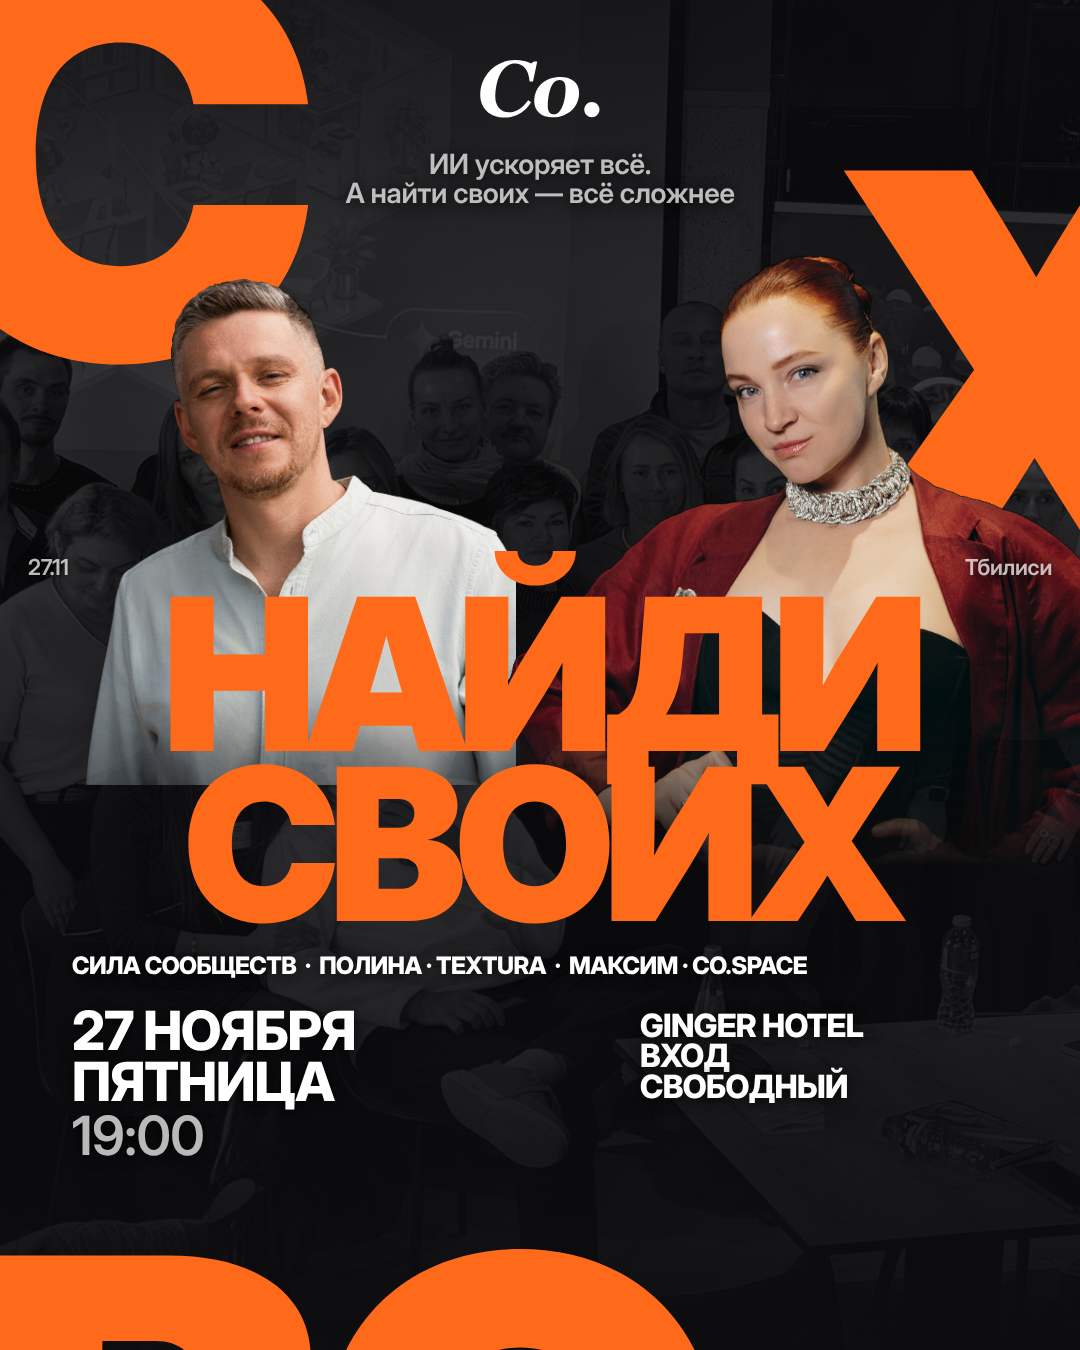
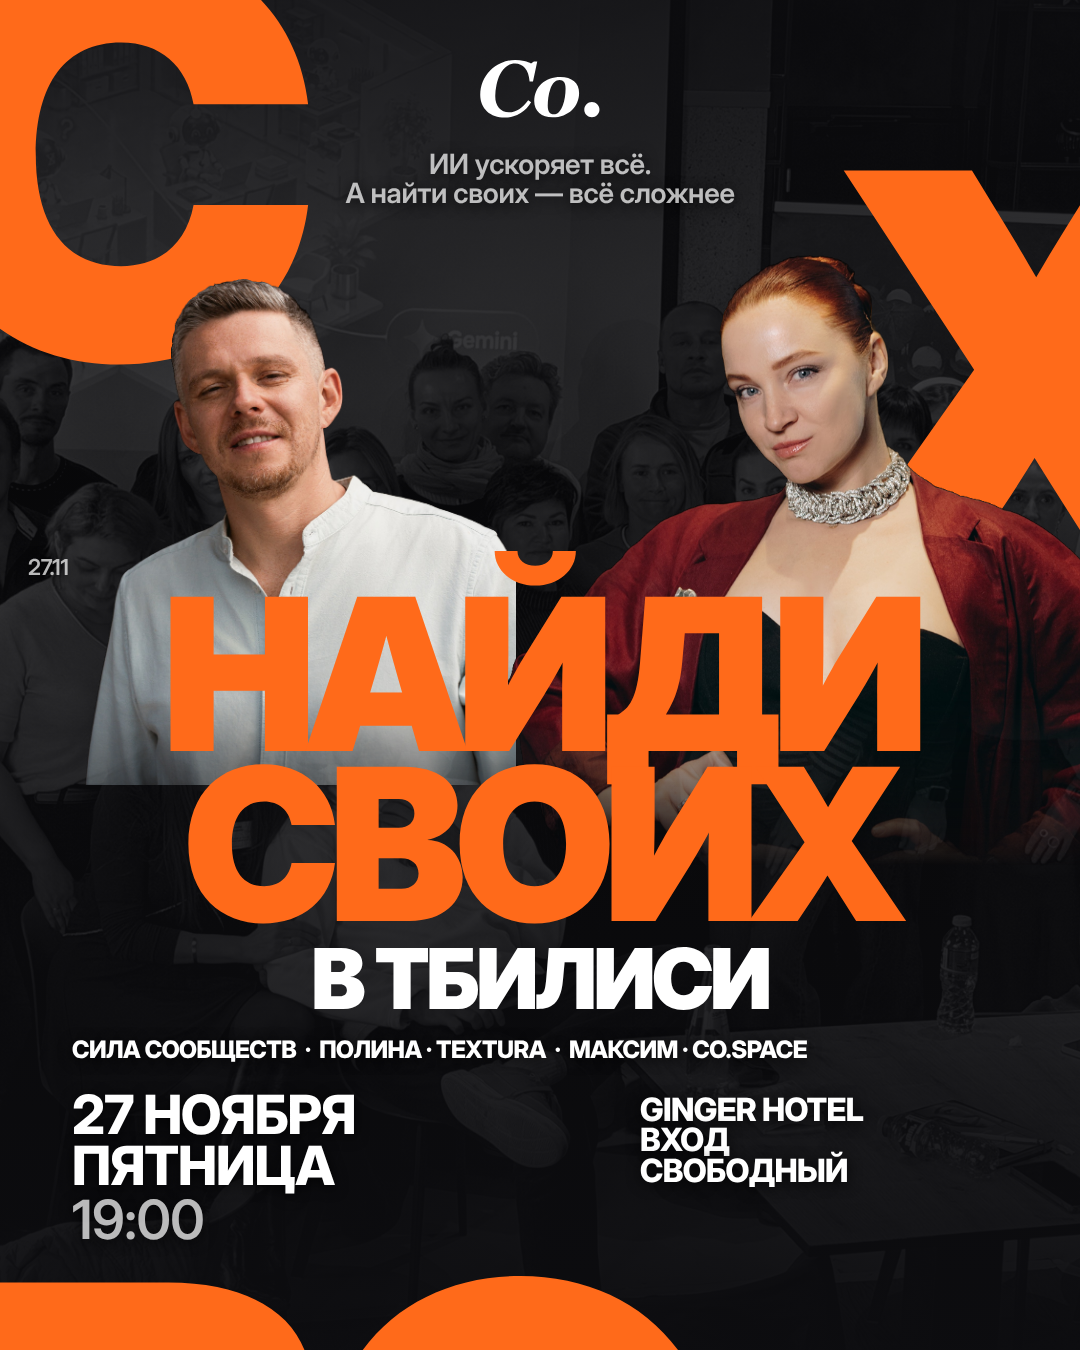
Вариант A: крупная строка «В ТБИЛИСИ»
Claude-Session: https://claude.ai/code/session_01EUhV7vaX3V2s8FuVCAhgM5

diff --git a/creatives/src/poster/edA-9x16.html b/creatives/src/poster/edA-9x16.html
@@ -14,7 +14,7 @@ body{background:#0D0D10}
 .title{position:absolute;left:0;right:0;text-align:center;font-weight:900;color:#FF6A1A;letter-spacing:-.05em;line-height:.8}
 .logo svg{display:block}
 .logo svg path{fill:#fff}
-</style></head><body><div class="bg"></div><div class="sh"></div><div class="L" style="left:-110px;top:-60px;font-size:760px">С</div><div class="L" style="right:-170px;top:330px;font-size:760px">Х</div><div class="person" style="left:71px;top:555px;height:546px;-webkit-mask-image:linear-gradient(180deg,#000 83.3%,transparent 118.1%);"><img src="max_cut.png"></div><div class="person" style="left:486px;top:525px;height:910px;-webkit-mask-image:linear-gradient(180deg,#000 53.2%,transparent 74.1%);"><img src="polina_cut.png"></div><div class="L" style="left:-40px;top:1700px;font-size:760px">ВО</div><div class="title" style="top:940px;font-size:245px">НАЙДИ<br>СВОИХ</div><div class="abs t" style="left:28px;top:906px;font-size:22px">27.11</div><div class="abs t" style="right:28px;top:906px;font-size:22px">Тбилиси</div><div class="abs t" style="left:0;right:0;top:365px;text-align:center;font-size:32px">ИИ ускоряет всё.<br>А найти своих — всё сложнее</div><div class="abs tb" style="left:72px;top:1358px;font-size:24px">СИЛА СООБЩЕСТВ &nbsp;·&nbsp; ПОЛИНА · TEXTURA &nbsp;·&nbsp; МАКСИМ · CO.SPACE</div><div class="abs" style="left:72px;top:1408px"><div class="tb" style="font-size:64px">27 НОЯБРЯ<br>ПЯТНИЦА</div><div class="t" style="font-size:64px">19:00</div></div><div class="abs tb" style="left:640px;top:1414px;font-size:36px">GINGER HOTEL<br>ВХОД<br>СВОБОДНЫЙ</div><div class="abs logo" style="left:50%;transform:translateX(-50%);top:270px"><svg width="120" height="59" viewBox="0 0 77 38" fill="none" xmlns="http://www.w3.org/2000/svg">
+</style></head><body><div class="bg"></div><div class="sh"></div><div class="L" style="left:-110px;top:-60px;font-size:760px">С</div><div class="L" style="right:-170px;top:330px;font-size:760px">Х</div><div class="person" style="left:71px;top:515px;height:546px;-webkit-mask-image:linear-gradient(180deg,#000 83.3%,transparent 118.1%);"><img src="max_cut.png"></div><div class="person" style="left:486px;top:485px;height:910px;-webkit-mask-image:linear-gradient(180deg,#000 53.2%,transparent 74.1%);"><img src="polina_cut.png"></div><div class="L" style="left:-40px;top:1730px;font-size:760px">ВО</div><div class="title" style="top:900px;font-size:245px">НАЙДИ<br>СВОИХ</div><div class="abs t" style="left:28px;top:866px;font-size:22px">27.11</div><div class="abs t" style="left:0;right:0;top:365px;text-align:center;font-size:32px">ИИ ускоряет всё.<br>А найти своих — всё сложнее</div><div class="abs" style="left:0;right:0;top:1300px;text-align:center;font-weight:900;font-size:96px;letter-spacing:-.04em;line-height:1;color:#fff">В ТБИЛИСИ</div><div class="abs tb" style="left:72px;top:1414px;font-size:24px">СИЛА СООБЩЕСТВ &nbsp;·&nbsp; ПОЛИНА · TEXTURA &nbsp;·&nbsp; МАКСИМ · CO.SPACE</div><div class="abs" style="left:72px;top:1464px"><div class="tb" style="font-size:64px">27 НОЯБРЯ<br>ПЯТНИЦА</div><div class="t" style="font-size:64px">19:00</div></div><div class="abs tb" style="left:640px;top:1470px;font-size:36px">GINGER HOTEL<br>ВХОД<br>СВОБОДНЫЙ</div><div class="abs logo" style="left:50%;transform:translateX(-50%);top:270px"><svg width="120" height="59" viewBox="0 0 77 38" fill="none" xmlns="http://www.w3.org/2000/svg">
 <path d="M15.6912 37.0447C13.4308 37.0447 11.3353 36.7143 9.40484 36.0537C7.47438 35.3761 5.80789 34.4098 4.40543 33.1545C3.01945 31.8988 1.93872 30.371 1.16323 28.5701C0.387743 26.7532 0 24.7047 0 22.425C0 19.402 0.552742 16.5524 1.65822 13.8763C2.78021 11.2001 4.35593 8.81309 6.38539 6.71513C8.33235 4.69976 10.7083 3.08086 13.5133 1.85843C16.3347 0.619476 19.3294 0 22.4974 0C24.4114 0 26.35 0.231271 28.3134 0.693814C30.2771 1.15636 31.7455 1.69323 32.7189 2.30445L34.5753 0.941605H36.7283L33.9811 13.7772H31.8034C31.4733 10.0273 30.4751 7.17767 28.8084 5.22837C27.1585 3.26258 25.0301 2.27967 22.4231 2.27967C20.5092 2.27967 18.7437 2.8496 17.1267 3.98942C15.5098 5.12927 14.0743 6.88031 12.8203 9.24259C11.7973 11.1919 11.0136 13.455 10.4691 16.0321C9.9411 18.5925 9.67709 20.9961 9.67709 23.2428C9.67709 26.5468 10.4773 29.1154 12.0778 30.9491C13.6783 32.7828 15.8232 33.6994 18.5127 33.6994C20.8722 33.6994 23.0584 33.0387 25.0713 31.7171C27.0844 30.3957 29.023 28.4875 30.8875 25.9932L32.7933 27.2816C31.9848 28.5372 31.0196 29.776 29.8976 30.9985C28.7755 32.2044 27.4968 33.2536 26.0613 34.1455C24.5598 35.0871 23.0089 35.8056 21.4084 36.3014C19.8244 36.7969 17.9187 37.0447 15.6912 37.0447Z" fill="white"/>
 <path d="M63.6817 21.2605C63.6817 23.342 63.2858 25.3326 62.4936 27.2323C61.7017 29.132 60.5797 30.784 59.1278 32.188C57.5603 33.6914 55.7205 34.856 53.6085 35.6819C51.5131 36.4914 49.1536 36.8962 46.5303 36.8962C43.0159 36.8962 40.178 35.9628 38.0163 34.0962C35.8548 32.213 34.7741 29.6523 34.7741 26.4146C34.7741 24.2175 35.1783 22.1774 35.9869 20.2942C36.8119 18.411 37.9587 16.7673 39.4271 15.3631C40.8792 13.992 42.6611 12.91 44.7731 12.1171C46.8851 11.3076 49.1701 10.9029 51.6285 10.9029C55.3575 10.9029 58.2946 11.8197 60.4395 13.6534C62.6009 15.4705 63.6817 18.0062 63.6817 21.2605ZM54.9699 18.4605C54.9699 16.5277 54.6398 15.1071 53.9799 14.1985C53.3363 13.29 52.396 12.8357 51.1585 12.8357C49.8879 12.8357 48.7246 13.3478 47.6686 14.372C46.6129 15.3797 45.7547 16.8664 45.0947 18.8322C44.5172 20.4676 44.1048 22.2434 43.8573 24.1597C43.6098 26.0594 43.4862 27.7609 43.4862 29.2641C43.4862 31.263 43.816 32.7167 44.4761 33.6254C45.136 34.5172 46.0929 34.9633 47.3469 34.9633C48.6999 34.9633 49.8713 34.4099 50.8613 33.3032C51.8513 32.1964 52.6351 30.8335 53.2127 29.2146C53.7902 27.6287 54.2274 25.8777 54.5243 23.9615C54.8213 22.0287 54.9699 20.195 54.9699 18.4605Z" fill="white"/>
 <path d="M76.8 31.9899C76.8 33.295 76.3132 34.4265 75.3397 35.3847C74.3829 36.3428 73.2443 36.8218 71.9243 36.8218C70.5879 36.8218 69.433 36.351 68.4593 35.4094C67.5025 34.4512 67.0238 33.3113 67.0238 31.9899C67.0238 30.6683 67.5025 29.5284 68.4593 28.5702C69.433 27.5958 70.5879 27.1084 71.9243 27.1084C73.2443 27.1084 74.3829 27.5958 75.3397 28.5702C76.3132 29.545 76.8 30.6849 76.8 31.9899Z" fill="white"/>

diff --git a/creatives/src/poster/edA-4x5.html b/creatives/src/poster/edA-4x5.html
@@ -14,7 +14,7 @@ body{background:#0D0D10}
 .title{position:absolute;left:0;right:0;text-align:center;font-weight:900;color:#FF6A1A;letter-spacing:-.05em;line-height:.8}
 .logo svg{display:block}
 .logo svg path{fill:#fff}
-</style></head><body><div class="bg"></div><div class="sh"></div><div class="L" style="left:-90px;top:-70px;font-size:560px">С</div><div class="L" style="right:-140px;top:150px;font-size:560px">Х</div><div class="person" style="left:85px;top:279px;height:506px;-webkit-mask-image:linear-gradient(180deg,#000 82.2%,transparent 115.8%);"><img src="max_cut.png"></div><div class="person" style="left:508px;top:252px;height:844px;-webkit-mask-image:linear-gradient(180deg,#000 52.5%,transparent 72.7%);"><img src="polina_cut.png"></div><div class="L" style="left:-30px;top:1235px;font-size:560px">ВО</div><div class="title" style="top:590px;font-size:212px">НАЙДИ<br>СВОИХ</div><div class="abs t" style="left:28px;top:556px;font-size:22px">27.11</div><div class="abs t" style="right:28px;top:556px;font-size:22px">Тбилиси</div><div class="abs t" style="left:0;right:0;top:150px;text-align:center;font-size:28px">ИИ ускоряет всё.<br>А найти своих — всё сложнее</div><div class="abs tb" style="left:72px;top:955px;font-size:24px">СИЛА СООБЩЕСТВ &nbsp;·&nbsp; ПОЛИНА · TEXTURA &nbsp;·&nbsp; МАКСИМ · CO.SPACE</div><div class="abs" style="left:72px;top:1005px"><div class="tb" style="font-size:54px">27 НОЯБРЯ<br>ПЯТНИЦА</div><div class="t" style="font-size:54px">19:00</div></div><div class="abs tb" style="left:640px;top:1011px;font-size:32px">GINGER HOTEL<br>ВХОД<br>СВОБОДНЫЙ</div><div class="abs logo" style="left:50%;transform:translateX(-50%);top:60px"><svg width="120" height="59" viewBox="0 0 77 38" fill="none" xmlns="http://www.w3.org/2000/svg">
+</style></head><body><div class="bg"></div><div class="sh"></div><div class="L" style="left:-90px;top:-70px;font-size:560px">С</div><div class="L" style="right:-140px;top:150px;font-size:560px">Х</div><div class="person" style="left:85px;top:279px;height:506px;-webkit-mask-image:linear-gradient(180deg,#000 82.2%,transparent 115.8%);"><img src="max_cut.png"></div><div class="person" style="left:508px;top:252px;height:844px;-webkit-mask-image:linear-gradient(180deg,#000 52.5%,transparent 72.7%);"><img src="polina_cut.png"></div><div class="L" style="left:-30px;top:1262px;font-size:560px">ВО</div><div class="title" style="top:590px;font-size:212px">НАЙДИ<br>СВОИХ</div><div class="abs t" style="left:28px;top:556px;font-size:22px">27.11</div><div class="abs t" style="left:0;right:0;top:150px;text-align:center;font-size:28px">ИИ ускоряет всё.<br>А найти своих — всё сложнее</div><div class="abs" style="left:0;right:0;top:937px;text-align:center;font-weight:900;font-size:84px;letter-spacing:-.04em;line-height:1;color:#fff">В ТБИЛИСИ</div><div class="abs tb" style="left:72px;top:1039px;font-size:24px">СИЛА СООБЩЕСТВ &nbsp;·&nbsp; ПОЛИНА · TEXTURA &nbsp;·&nbsp; МАКСИМ · CO.SPACE</div><div class="abs" style="left:72px;top:1089px"><div class="tb" style="font-size:54px">27 НОЯБРЯ<br>ПЯТНИЦА</div><div class="t" style="font-size:54px">19:00</div></div><div class="abs tb" style="left:640px;top:1095px;font-size:32px">GINGER HOTEL<br>ВХОД<br>СВОБОДНЫЙ</div><div class="abs logo" style="left:50%;transform:translateX(-50%);top:60px"><svg width="120" height="59" viewBox="0 0 77 38" fill="none" xmlns="http://www.w3.org/2000/svg">
 <path d="M15.6912 37.0447C13.4308 37.0447 11.3353 36.7143 9.40484 36.0537C7.47438 35.3761 5.80789 34.4098 4.40543 33.1545C3.01945 31.8988 1.93872 30.371 1.16323 28.5701C0.387743 26.7532 0 24.7047 0 22.425C0 19.402 0.552742 16.5524 1.65822 13.8763C2.78021 11.2001 4.35593 8.81309 6.38539 6.71513C8.33235 4.69976 10.7083 3.08086 13.5133 1.85843C16.3347 0.619476 19.3294 0 22.4974 0C24.4114 0 26.35 0.231271 28.3134 0.693814C30.2771 1.15636 31.7455 1.69323 32.7189 2.30445L34.5753 0.941605H36.7283L33.9811 13.7772H31.8034C31.4733 10.0273 30.4751 7.17767 28.8084 5.22837C27.1585 3.26258 25.0301 2.27967 22.4231 2.27967C20.5092 2.27967 18.7437 2.8496 17.1267 3.98942C15.5098 5.12927 14.0743 6.88031 12.8203 9.24259C11.7973 11.1919 11.0136 13.455 10.4691 16.0321C9.9411 18.5925 9.67709 20.9961 9.67709 23.2428C9.67709 26.5468 10.4773 29.1154 12.0778 30.9491C13.6783 32.7828 15.8232 33.6994 18.5127 33.6994C20.8722 33.6994 23.0584 33.0387 25.0713 31.7171C27.0844 30.3957 29.023 28.4875 30.8875 25.9932L32.7933 27.2816C31.9848 28.5372 31.0196 29.776 29.8976 30.9985C28.7755 32.2044 27.4968 33.2536 26.0613 34.1455C24.5598 35.0871 23.0089 35.8056 21.4084 36.3014C19.8244 36.7969 17.9187 37.0447 15.6912 37.0447Z" fill="white"/>
 <path d="M63.6817 21.2605C63.6817 23.342 63.2858 25.3326 62.4936 27.2323C61.7017 29.132 60.5797 30.784 59.1278 32.188C57.5603 33.6914 55.7205 34.856 53.6085 35.6819C51.5131 36.4914 49.1536 36.8962 46.5303 36.8962C43.0159 36.8962 40.178 35.9628 38.0163 34.0962C35.8548 32.213 34.7741 29.6523 34.7741 26.4146C34.7741 24.2175 35.1783 22.1774 35.9869 20.2942C36.8119 18.411 37.9587 16.7673 39.4271 15.3631C40.8792 13.992 42.6611 12.91 44.7731 12.1171C46.8851 11.3076 49.1701 10.9029 51.6285 10.9029C55.3575 10.9029 58.2946 11.8197 60.4395 13.6534C62.6009 15.4705 63.6817 18.0062 63.6817 21.2605ZM54.9699 18.4605C54.9699 16.5277 54.6398 15.1071 53.9799 14.1985C53.3363 13.29 52.396 12.8357 51.1585 12.8357C49.8879 12.8357 48.7246 13.3478 47.6686 14.372C46.6129 15.3797 45.7547 16.8664 45.0947 18.8322C44.5172 20.4676 44.1048 22.2434 43.8573 24.1597C43.6098 26.0594 43.4862 27.7609 43.4862 29.2641C43.4862 31.263 43.816 32.7167 44.4761 33.6254C45.136 34.5172 46.0929 34.9633 47.3469 34.9633C48.6999 34.9633 49.8713 34.4099 50.8613 33.3032C51.8513 32.1964 52.6351 30.8335 53.2127 29.2146C53.7902 27.6287 54.2274 25.8777 54.5243 23.9615C54.8213 22.0287 54.9699 20.195 54.9699 18.4605Z" fill="white"/>
 <path d="M76.8 31.9899C76.8 33.295 76.3132 34.4265 75.3397 35.3847C74.3829 36.3428 73.2443 36.8218 71.9243 36.8218C70.5879 36.8218 69.433 36.351 68.4593 35.4094C67.5025 34.4512 67.0238 33.3113 67.0238 31.9899C67.0238 30.6683 67.5025 29.5284 68.4593 28.5702C69.433 27.5958 70.5879 27.1084 71.9243 27.1084C73.2443 27.1084 74.3829 27.5958 75.3397 28.5702C76.3132 29.545 76.8 30.6849 76.8 31.9899Z" fill="white"/>

diff --git a/creatives/src/poster/build_editorial.py b/creatives/src/poster/build_editorial.py
@@ -46,7 +46,7 @@ def poster_a(fmt):
     story = fmt == "9x16"
     H = 1920 if story else 1350
     F = 178 if story else 165
-    fy = 680 if story else 395
+    fy = 640 if story else 395
     s = []
     s.append('<div class="bg"></div><div class="sh"></div>')
     # задние буквы
@@ -61,18 +61,19 @@ def poster_a(fmt):
     s.append(place(PCUT, F, 785, fy, "polina_cut.png", fade))
     # передние нижние буквы
     if story:
-        s.append('<div class="L" style="left:-40px;top:1700px;font-size:760px">ВО</div>')
+        s.append('<div class="L" style="left:-40px;top:1730px;font-size:760px">ВО</div>')
     else:
-        s.append('<div class="L" style="left:-30px;top:1235px;font-size:560px">ВО</div>')
+        s.append('<div class="L" style="left:-30px;top:1262px;font-size:560px">ВО</div>')
     # центр
-    ty = 940 if story else 590
+    ty = 900 if story else 590
     ts = 245 if story else 212
     s.append(f'<div class="title" style="top:{ty}px;font-size:{ts}px">НАЙДИ<br>СВОИХ</div>')
     s.append(f'<div class="abs t" style="left:28px;top:{ty - 34}px;font-size:22px">27.11</div>')
-    s.append(f'<div class="abs t" style="right:28px;top:{ty - 34}px;font-size:22px">Тбилиси</div>')
     tl = (270 + 95) if story else 150
     s.append(f'<div class="abs t" style="left:0;right:0;top:{tl}px;text-align:center;font-size:{32 if story else 28}px">ИИ ускоряет всё.<br>А найти своих — всё сложнее</div>')
-    by = ty + ts * 1.6 + 26
+    cs = 96 if story else 84
+    s.append(f'<div class="abs" style="left:0;right:0;top:{ty + ts * 1.6 + 8:.0f}px;text-align:center;font-weight:900;font-size:{cs}px;letter-spacing:-.04em;line-height:1;color:#fff">В ТБИЛИСИ</div>')
+    by = ty + ts * 1.6 + 8 + cs + 18
     s.append(f'<div class="abs tb" style="left:72px;top:{by:.0f}px;font-size:24px">СИЛА СООБЩЕСТВ &nbsp;·&nbsp; ПОЛИНА · TEXTURA &nbsp;·&nbsp; МАКСИМ · CO.SPACE</div>')
     ds = 64 if story else 54
     s.append(f'<div class="abs" style="left:72px;top:{by + 50:.0f}px"><div class="tb" style="font-size:{ds}px">27 НОЯБРЯ<br>ПЯТНИЦА</div><div class="t" style="font-size:{ds}px">19:00</div></div>')
